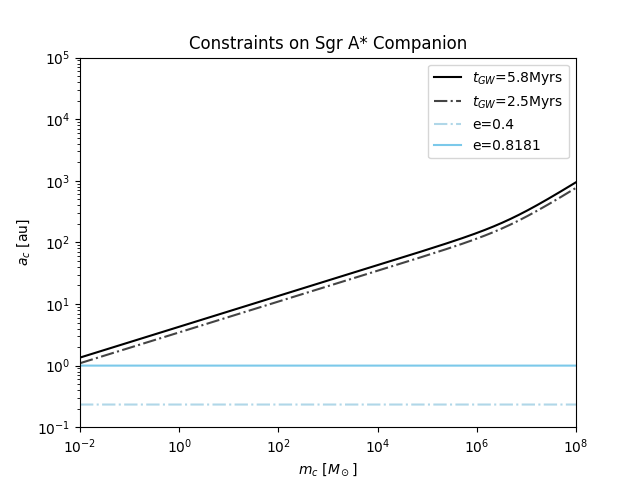
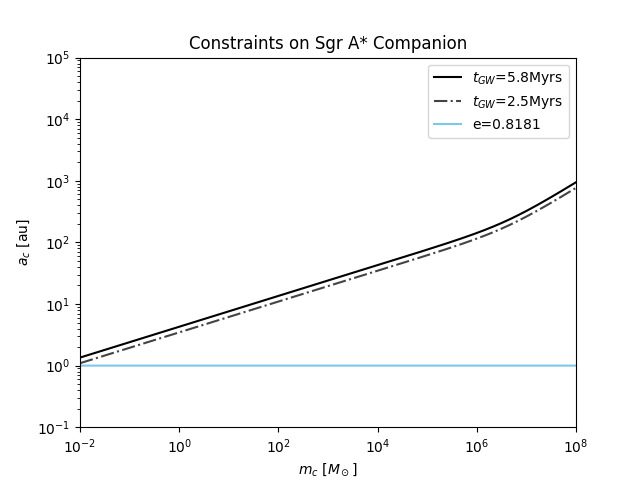
Prune Unnecessary e=0.4 Graph

diff --git a/constraints.py b/constraints.py
@@ -61,12 +61,6 @@ for obj in observing_objects:
 
 # -- Constraints on Falling Into Sgr A* -- #
 
-falling_in_calculation(plt, masses, 0.4,
-{
-	"style": 'dashdot',
-	"color": "#b0d7e8"
-})
-
 falling_in_calculation(plt, masses, 0.8181,
 {
 	"style": 'solid',
